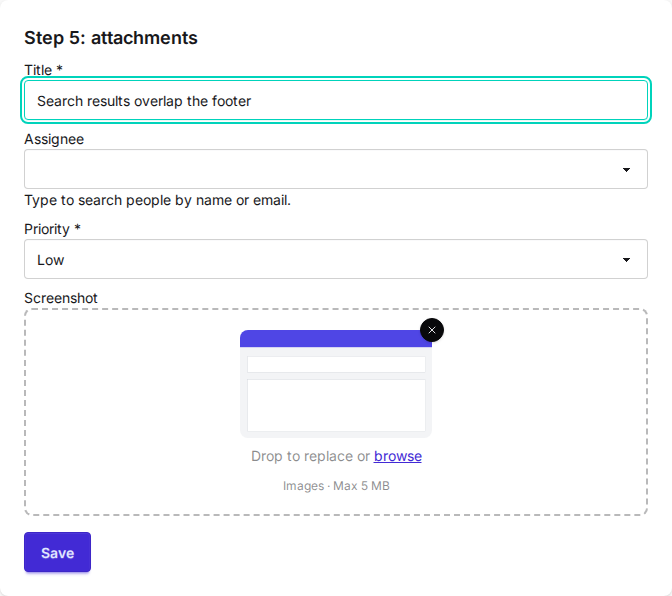
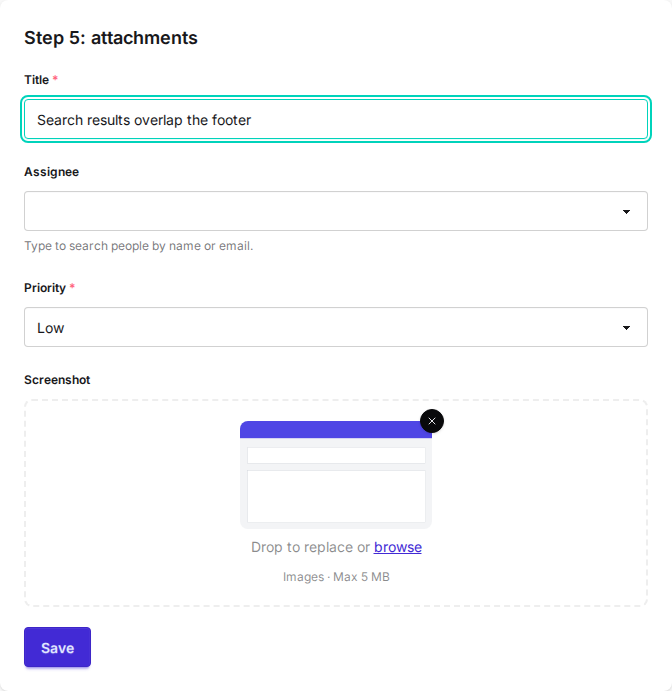
examples/simple: scan the formwork package in the CSS build
The simple example's app.css only scanned its own templates, so Tailwind
tree-shook the utility classes used in formwork's widget and field
templates. The cookbook screenshots showed it: the step 2 dropdown options
collapsed (flex-col/gap-2 missing) and the step 3 error tooltip rendered
above its field instead of below (tooltip-bottom missing). Add the same
@source "../../django_formwork/" the full example and e2e tests already
have, and regenerate the affected screenshots.

diff --git a/examples/simple/app.css b/examples/simple/app.css
@@ -1,8 +1,12 @@
 /* Import formwork (includes Tailwind + DaisyUI + icons). */
 @import "../../django_formwork/static/formwork/formwork.css";
 
-/* Scan our templates for Tailwind utility classes. */
+/* Scan our templates AND the whole formwork package so Tailwind picks up
+ * classes referenced in the widget and field templates (the dropdown option
+ * layout, the `tooltip-bottom` error tooltip, etc.). Without the second
+ * source those classes are tree-shaken out and the widgets render unstyled. */
 @source "./templates/";
+@source "../../django_formwork/";
 
 /* Pin font for screenshot reproducibility across platforms. */
 body {
